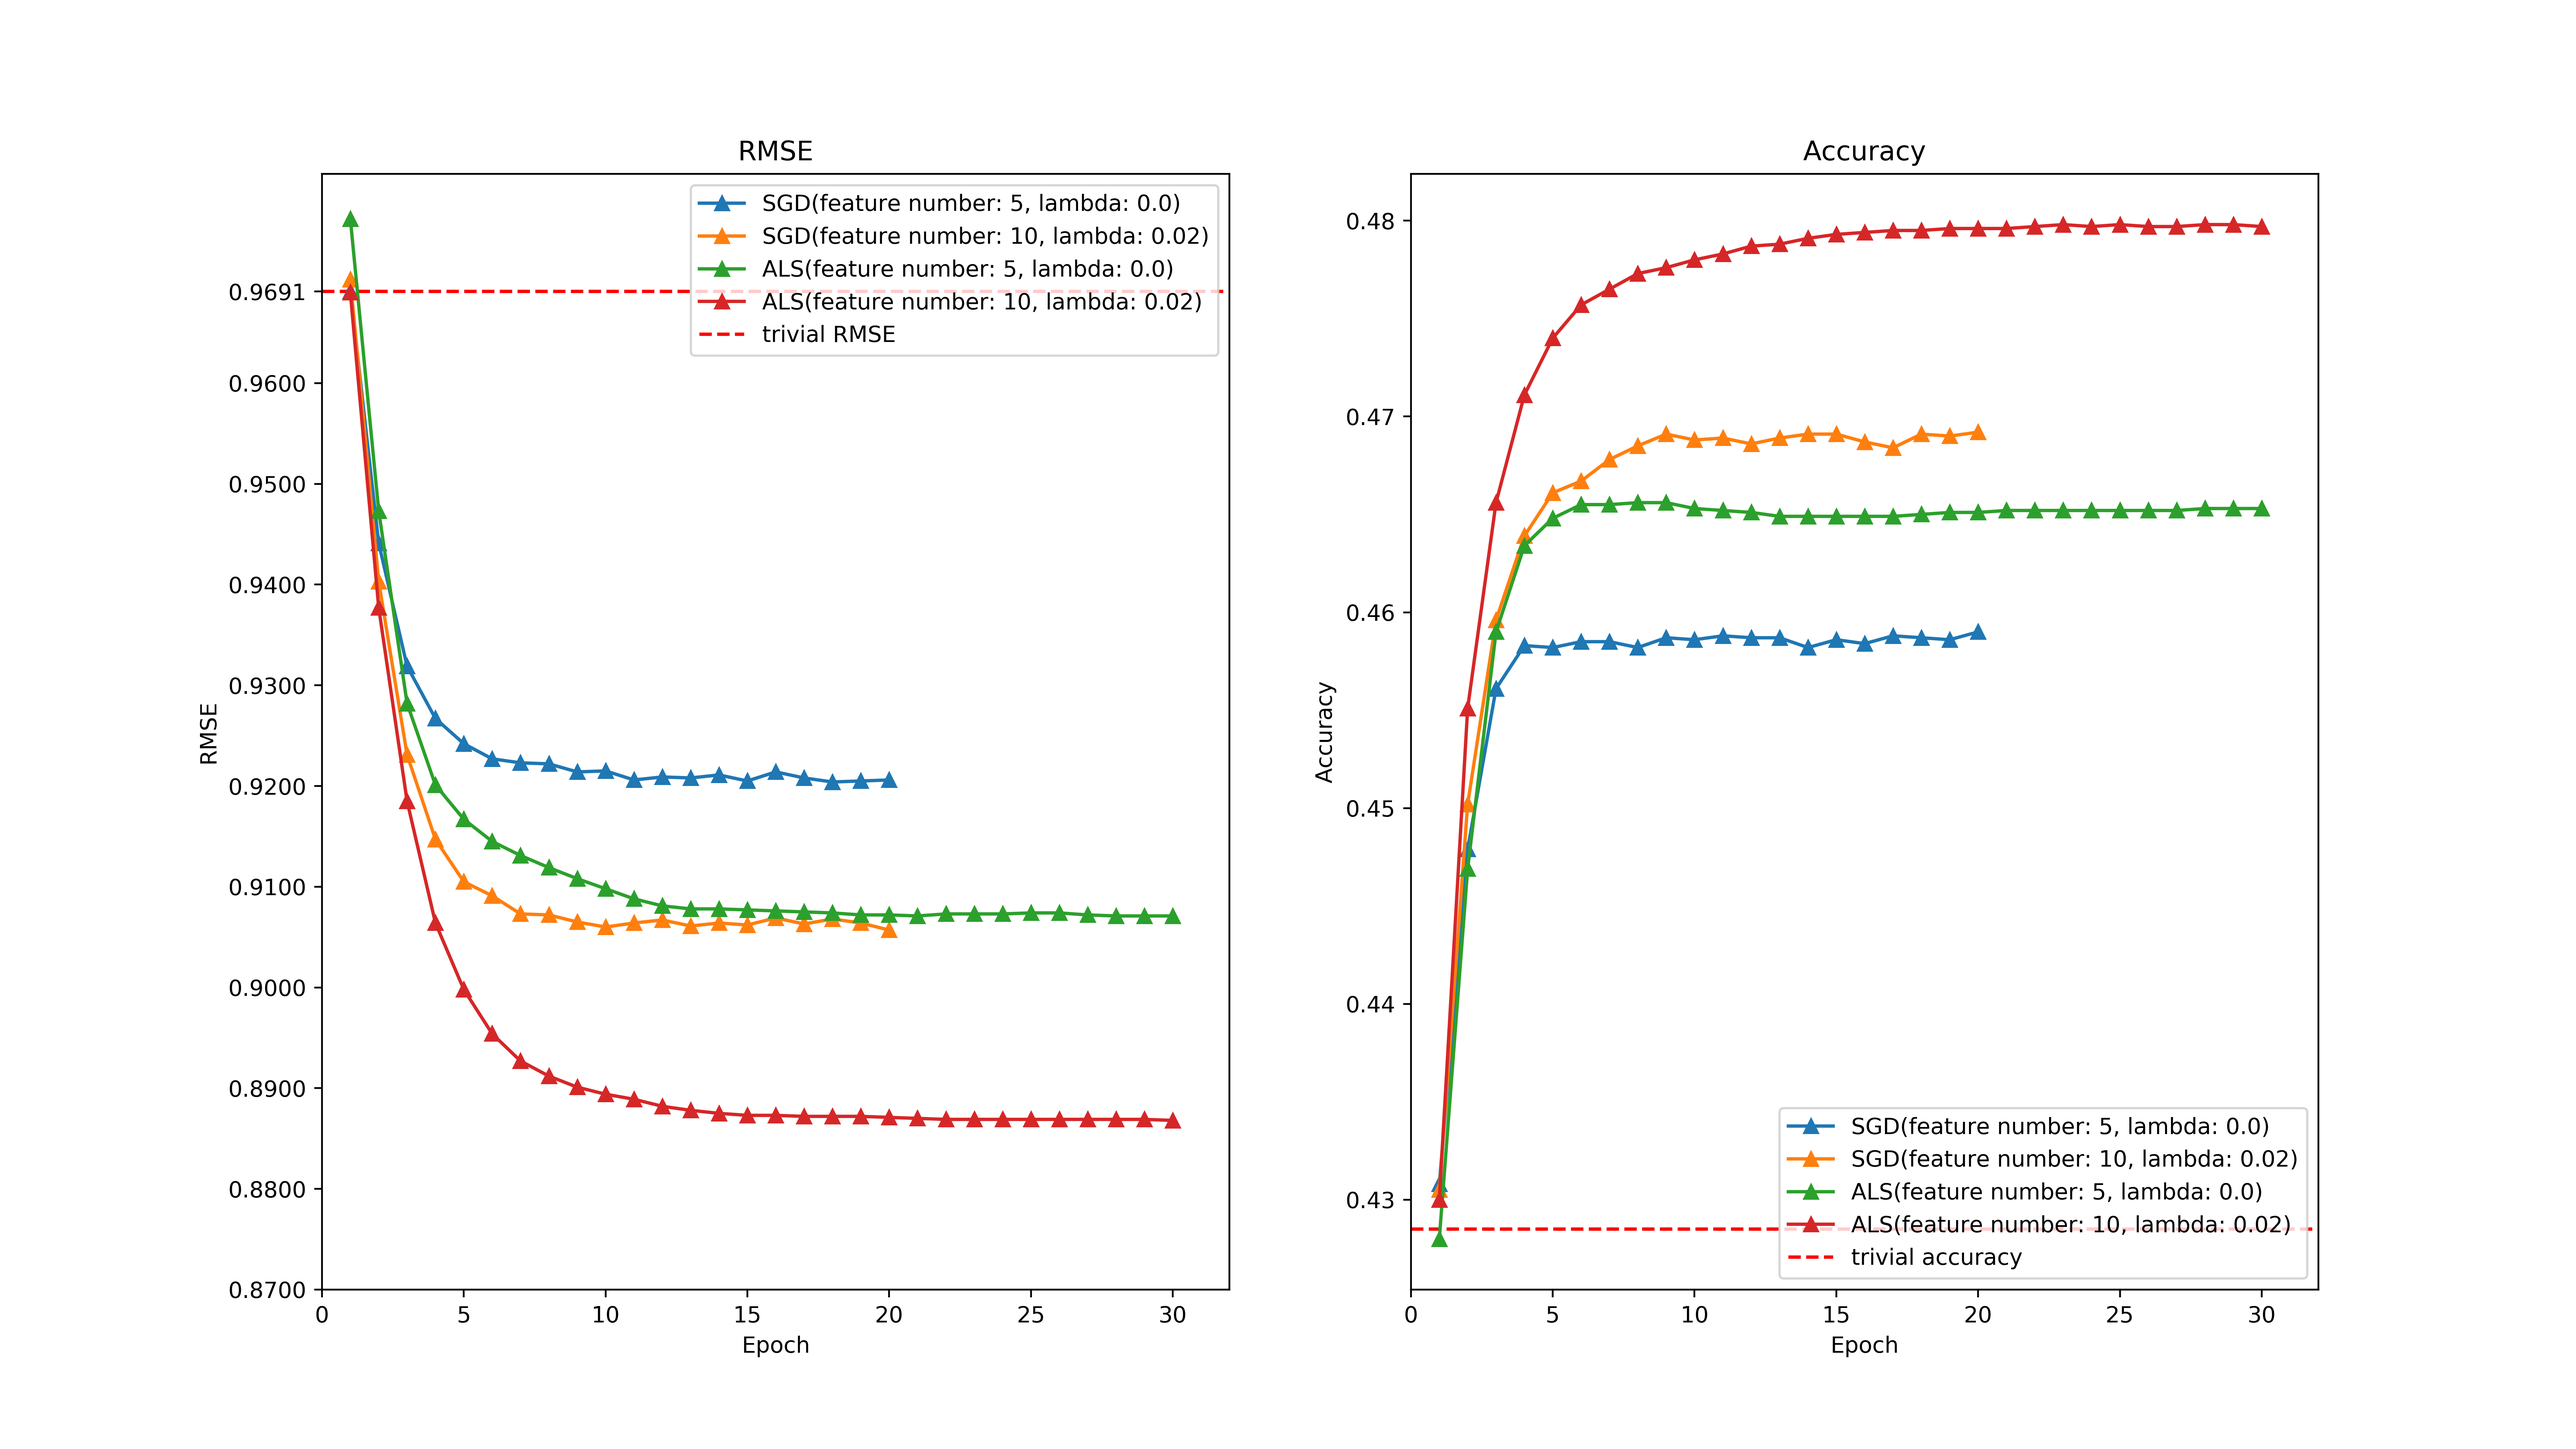
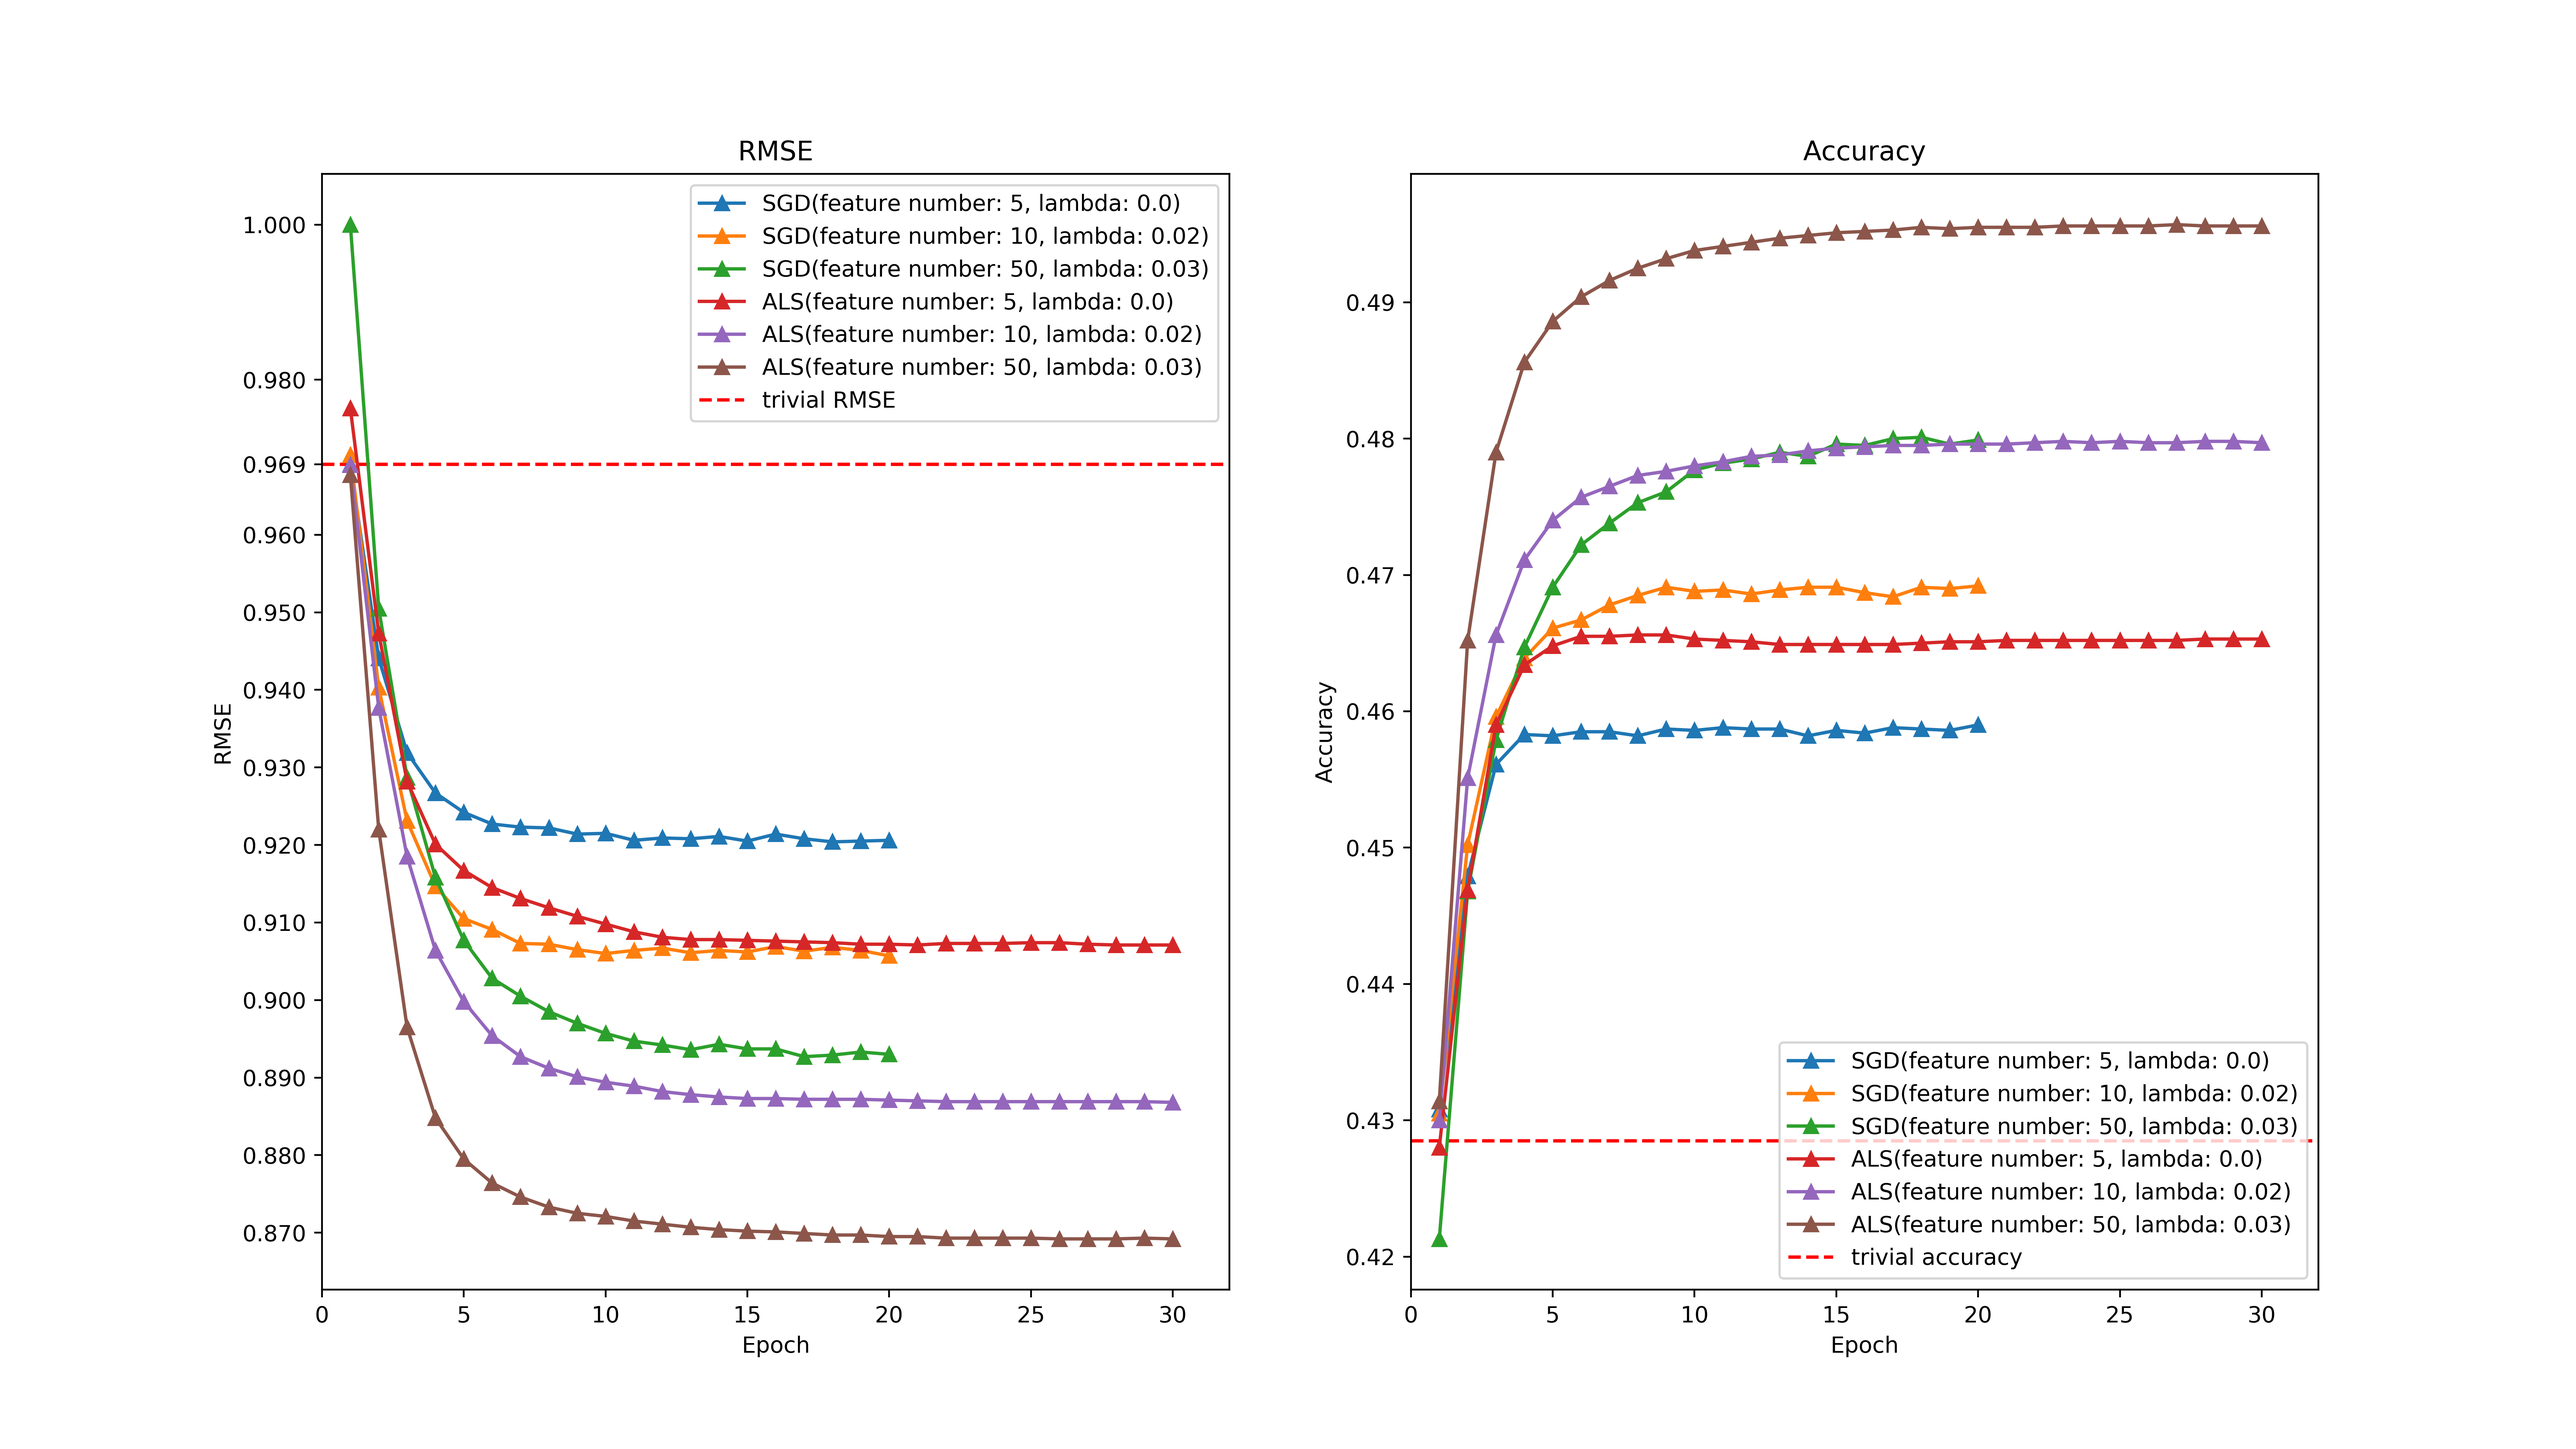
add logs

diff --git a/model/graphique.py b/model/graphique.py
@@ -43,7 +43,7 @@ def plotRecordEvolution(trainRecords):
         plt.ylabel(ylabel)
         plt.title(ylabel)
     trivialRMSE = 0.9691
-    rmseTicks = [0.010*i for i in range(87,97)] + [trivialRMSE]
+    rmseTicks = [0.010*i for i in range(87,97)] + [trivialRMSE,0.98,1.0]
     trivialAccuracy = 0.4285
     plt.subplot(121)
     plt.hlines(trivialRMSE,xmin,xmax,'r',"dashed",label="trivial RMSE")
@@ -68,7 +68,7 @@ def plotRecordResult(trainRecords):
     '''
     trivialRMSE = 0.9691
     lambdaTicks = [0,0.01,0.02,0.03,0.04,0.05,0.06,0.07,0.08,0.09,0.1,0.15,0.2,0.4]
-    rmseTicks = [0.010*i for i in range(87,97)] + [trivialRMSE]
+    rmseTicks = [0.010*i for i in range(86,97)] + [trivialRMSE,0.98,1.0,1.02]
     recordDict = defaultdict(list)
     for record in trainRecords:
         myKey = record.method + '_Feature_Num_' + str(record.featureNum)
@@ -97,7 +97,7 @@ if __name__=="__main__":
     trainRecords = formatTrainRecords(logFiles)
     plotRecordResult(trainRecords)
 
-    selectedIndex = [1000,2000,1016,2016]
+    selectedIndex = [1000,2000,1016,2016,1031,2045]
     selectedRecords = []
     for record in trainRecords:
         if record.index in selectedIndex:
